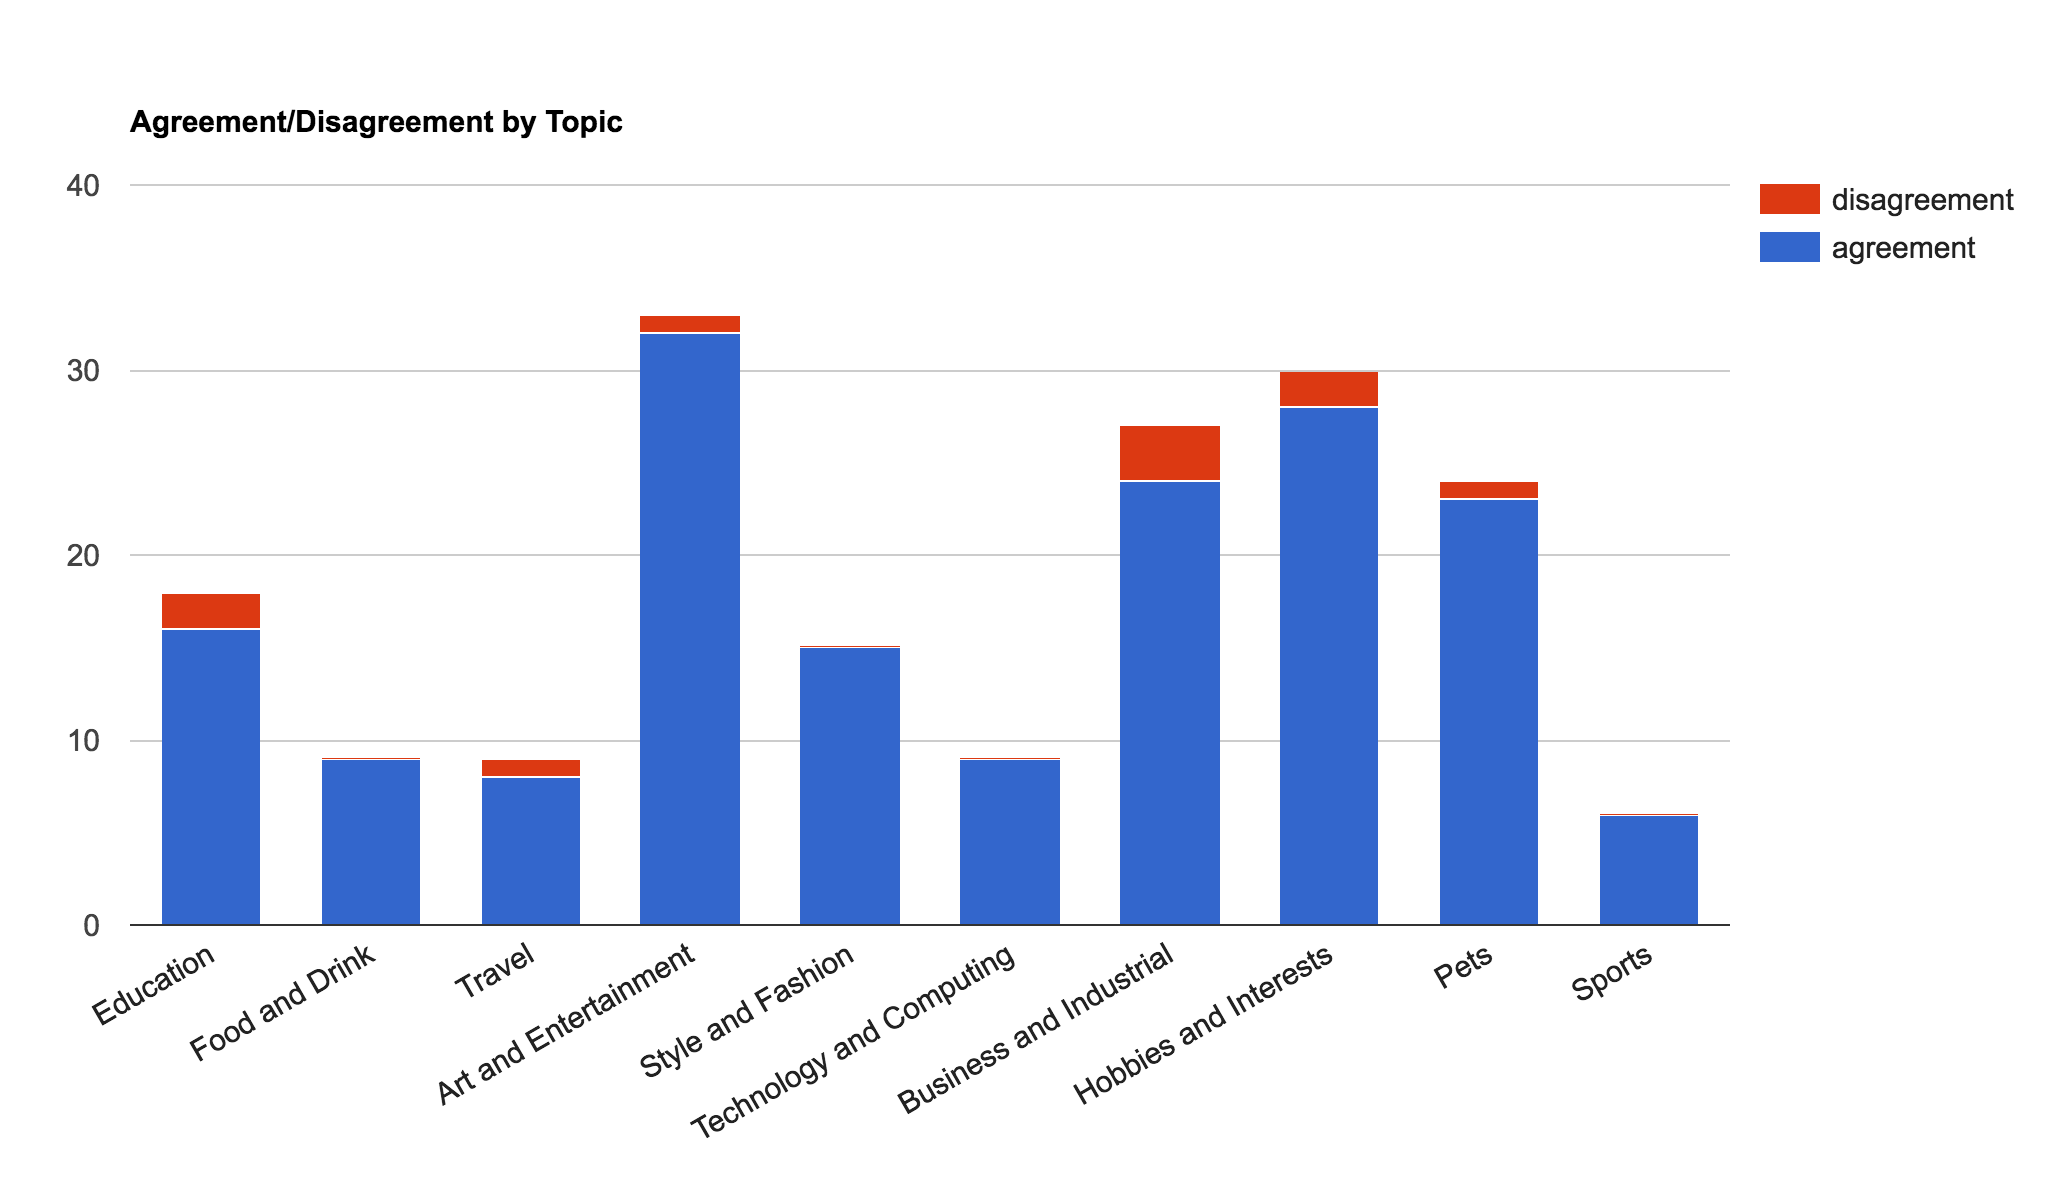
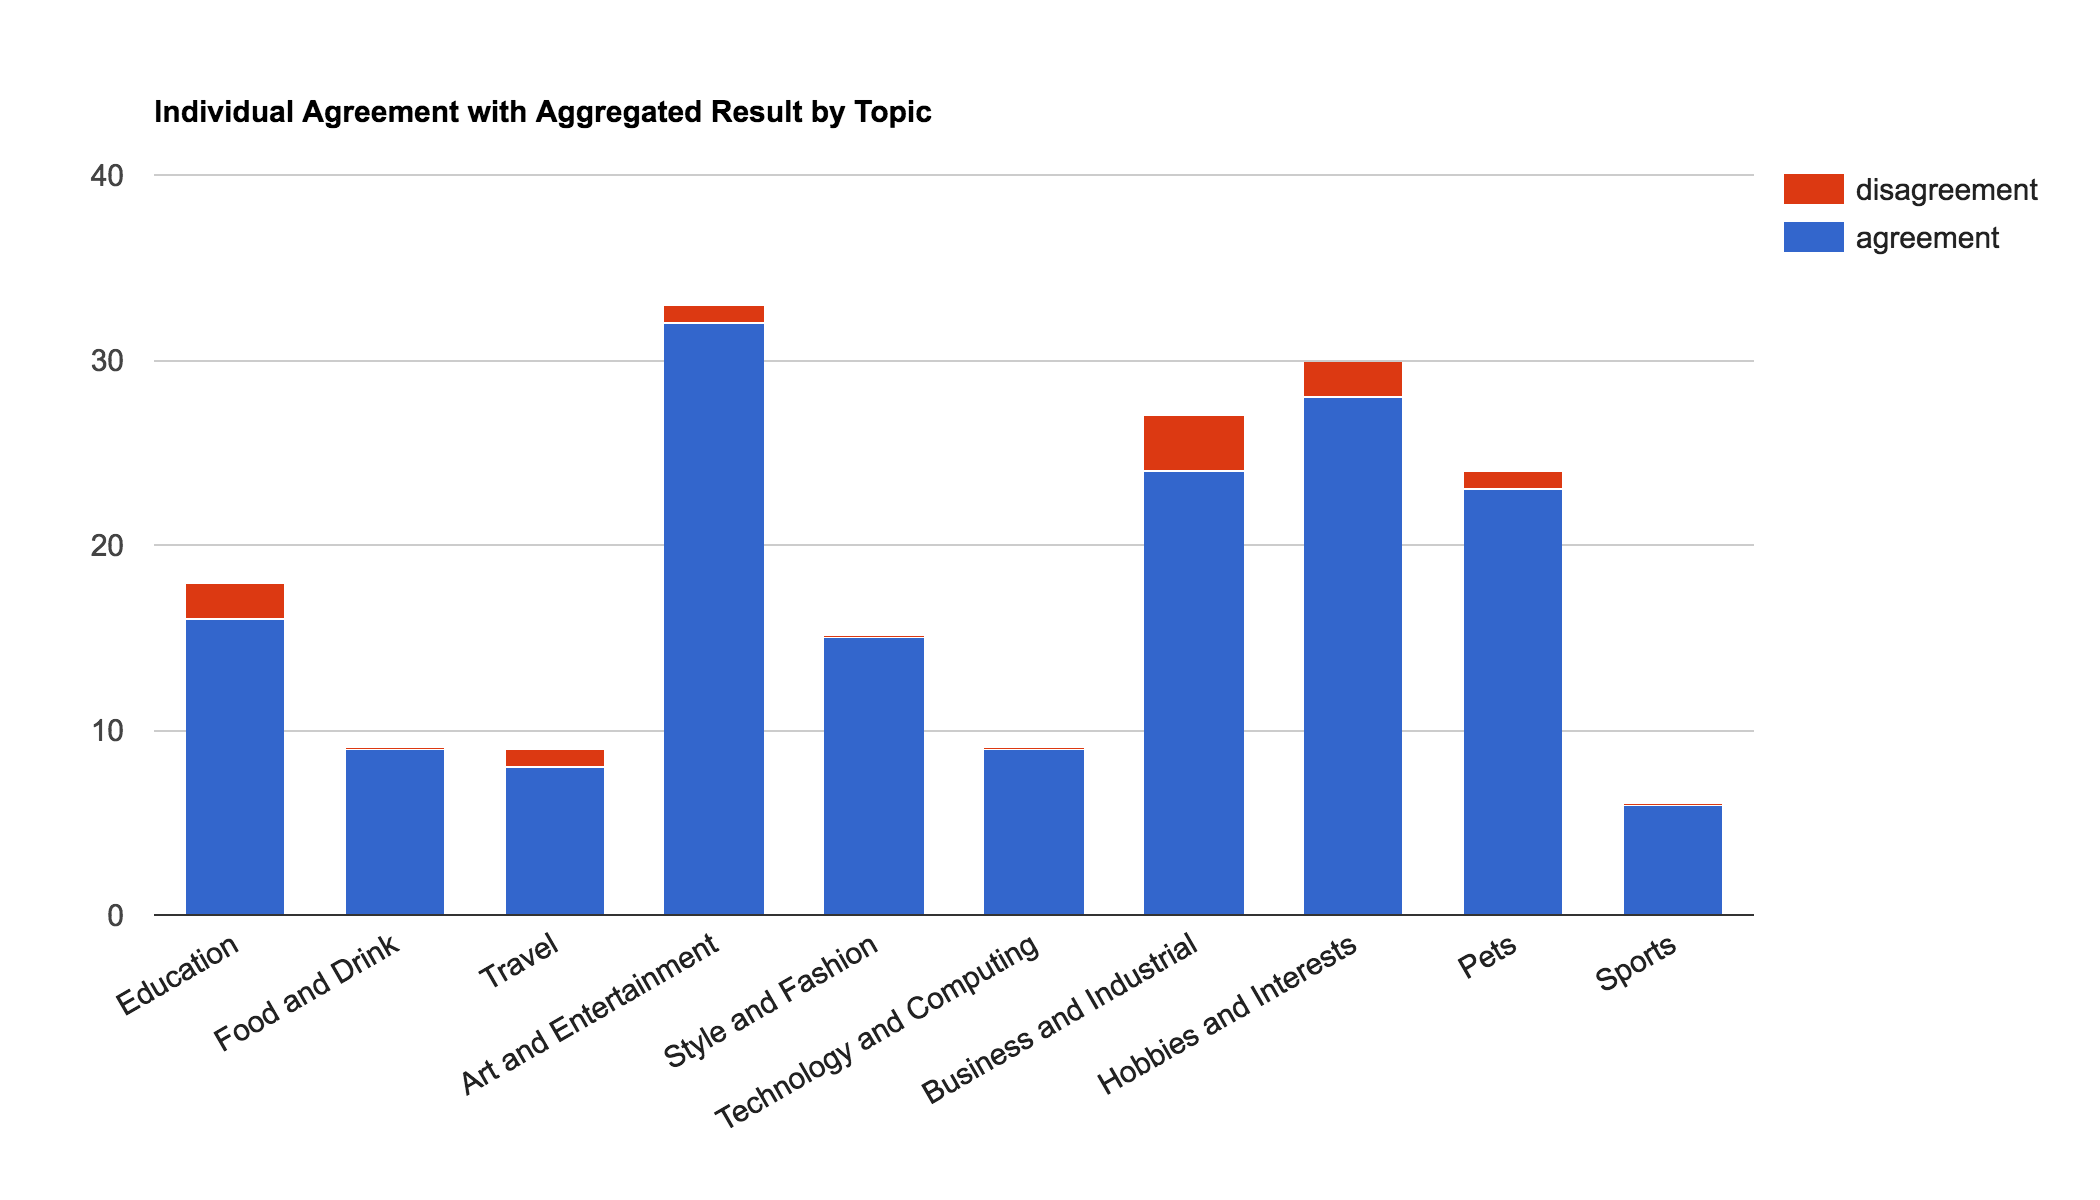
tweaks

diff --git a/analysis/label_agreement.html b/analysis/label_agreement.html
@@ -18,7 +18,7 @@
     ]);
 
     var options = {
-      title: "Agreement/Disagreement by Topic",
+      title: "Individual Agreement with Aggregated Result by Topic",
       width: 1200,
       height: 600,
       legend: { 
